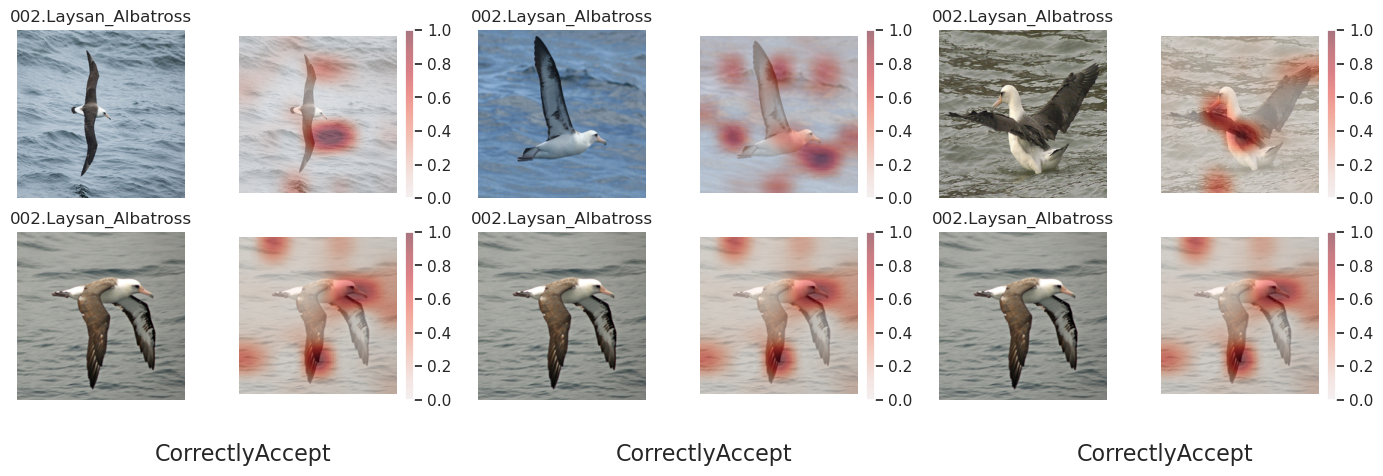
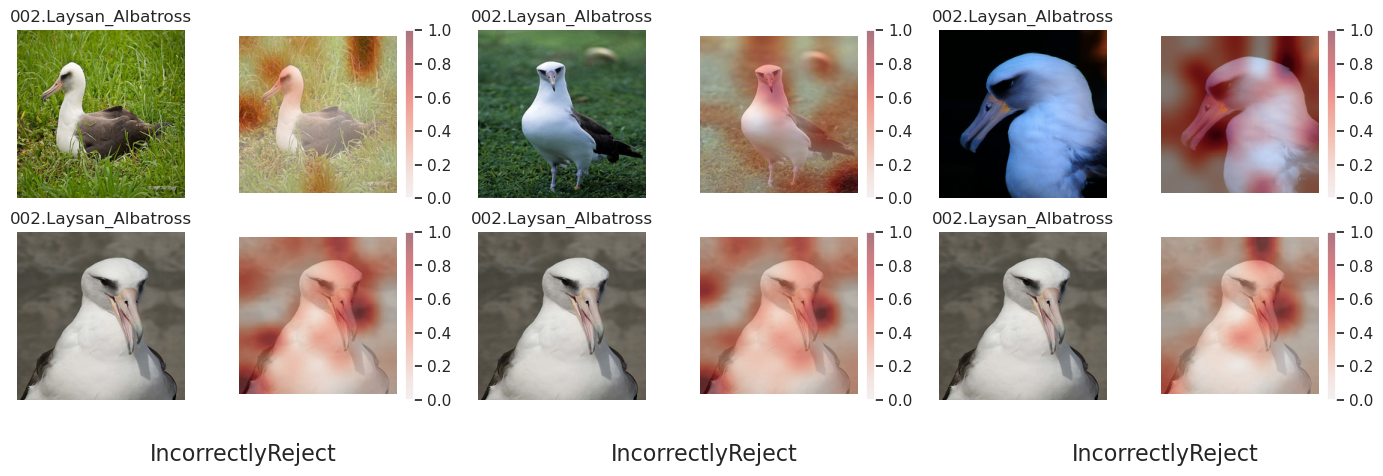
Add the softmax score for fine-tuning step

diff --git a/cub_infer.py b/cub_infer.py
@@ -86,7 +86,7 @@ full_cub_dataset = ImageFolderForNNs('/home/giang/Downloads/datasets/CUB/combine
 if __name__ == '__main__':
     parser = argparse.ArgumentParser()
     parser.add_argument('--ckpt', type=str,
-                        default='best_model_super-mountain-1434.pt',
+                        default='best_model_stilted-yogurt-1442.pt',
                         help='Model check point')
     # parser.add_argument('--dataset', type=str,
     #                     default='balanced_val_dataset_6k',
@@ -267,8 +267,8 @@ if __name__ == '__main__':
                 else:
                     TEST = False
                     if TEST is True:
-                        explanation = x.unsqueeze(1).repeat(1, RunningParams.k_value, 1, 1, 1). \
-                            view(x.shape[0], RunningParams.k_value, 3, 224, 224)
+                        # Use the random permutation to shuffle the first dimension of the explanation tensor
+                        explanation = explanation[torch.randperm(explanation.size(0))]
                     output, query, i2e_attn, e2i_attn = model(images=x, explanations=explanation, scores=model1_p)
 
                 p = torch.nn.functional.softmax(output, dim=1)
@@ -284,6 +284,8 @@ if __name__ == '__main__':
 
                     results = (preds == labels)
                     for sample_idx in range(x.shape[0]):
+                        if sample_idx == 1:
+                            break
                         result = results[sample_idx].item()
                         if result is True:
                             correctness = 'Correctly'
@@ -309,10 +311,10 @@ if __name__ == '__main__':
                             Visualization.visualize_transformer_attn_v2(bef_weights, aft_weights, prototype, query, model2_decision, prototype_idx)
 
                         # Combine visualizations
-                        # cmd = 'montage tmp/{}/{}_[0-{}].png -tile 3x1 -geometry +0+0 tmp/{}/{}.jpeg'.format(
-                        #     model2_decision, base_name, RunningParams.k_value-1, model2_decision, base_name)
-                        cmd = 'montage tmp/{}/{}_[0-{}].png -tile 3x1 -geometry +0+0 my_plot.png'.format(
-                            model2_decision, base_name, RunningParams.k_value - 1)
+                        cmd = 'montage tmp/{}/{}_[0-{}].png -tile 3x1 -geometry +0+0 tmp/{}/{}.jpeg'.format(
+                            model2_decision, base_name, RunningParams.k_value-1, model2_decision, base_name)
+                        # cmd = 'montage tmp/{}/{}_[0-{}].png -tile 3x1 -geometry +0+0 my_plot.png'.format(
+                        #     model2_decision, base_name, RunningParams.k_value - 1)
                         os.system(cmd)
                         # Remove unused images
                         cmd = 'rm -rf tmp/{}/{}_[0-{}].png'.format(

diff --git a/transformer.py b/transformer.py
@@ -83,15 +83,20 @@ class Transformer_AdvisingNetwork(nn.Module):
                                                                    RunningParams.conv_layer_size[RunningParams.conv_layer])
 
         self.transformer = Transformer(dim=2048, depth=2, heads=8, dim_head=64, mlp_dim=512, dropout=0.0)
-        self.cross_transformer = CrossTransformer(sm_dim=2048, lg_dim=2048, depth=2, heads=8,
+        self.cross_transformer = CrossTransformer(sm_dim=2048, lg_dim=2048, depth=2, heads=1,
                                                   dim_head=64, dropout=0.0)
 
         # TODO: What is dim_head, mlp_dim? How these affect the performance?
         # Branch 1 takes softmax scores and cosine similarity
         # self.branch1 = BinaryMLP(200, 2)
         # Branch 3 takes transformer features and sep_token*2
-        self.branch3 = BinaryMLP(RunningParams.k_value*RunningParams.conv_layer_size[RunningParams.conv_layer]*2 +
-                                 RunningParams.k_value*2, 32)
+        # if RunningParams.USING_SOFTMAX is True:
+        #     self.branch3 = BinaryMLP(RunningParams.k_value*RunningParams.conv_layer_size[RunningParams.conv_layer]*2 +
+        #                              RunningParams.k_value*2 + 201, 32)
+        # else:
+        self.branch3 = BinaryMLP(
+            RunningParams.k_value * RunningParams.conv_layer_size[RunningParams.conv_layer] * 2 +
+            RunningParams.k_value * 2, 32)
 
         # self.output_layer = BinaryMLP(2 * 2 + 2, 2)
 
@@ -206,6 +211,9 @@ class Transformer_AdvisingNetwork(nn.Module):
             transformer_emb = torch.cat([sep_token, input_cls[:, 0, :], sep_token, exp_cls[:, 0, :]], dim=1)
             for prototype_idx in range(1, RunningParams.k_value):
                 transformer_emb = torch.cat([transformer_emb, sep_token, input_cls[:, prototype_idx], sep_token, exp_cls[:, prototype_idx]], dim=1)
+
+            if RunningParams.USING_SOFTMAX is True:
+                transformer_emb = torch.cat([transformer_emb, sep_token, scores], dim=1)
 
             i2e_attns = torch.cat(i2e_attns, dim=2)
             e2i_attns = torch.cat(e2i_attns, dim=2)

diff --git a/cub_model_training.py b/cub_model_training.py
@@ -40,7 +40,7 @@ torch.backends.cudnn.benchmark = True
 plt.ion()   # interactive mode
 
 os.environ["CUDA_DEVICE_ORDER"] = "PCI_BUS_ID"
-os.environ["CUDA_VISIBLE_DEVICES"] = "4,5,6,7"
+os.environ["CUDA_VISIBLE_DEVICES"] = "0,1,2,3"
 
 RunningParams = RunningParams()
 Dataset = Dataset()
@@ -303,9 +303,14 @@ MODEL2 = MODEL2.cuda()
 MODEL2 = nn.DataParallel(MODEL2)
 
 if RunningParams.CONTINUE_TRAINING:
-    model_path = 'best_models/best_model_exalted-haze-1422.pt'
+    model_path = 'best_models/best_model_feasible-plasma-1440.pt'
     checkpoint = torch.load(model_path)
     MODEL2.load_state_dict(checkpoint['model_state_dict'])
+    if RunningParams.USING_SOFTMAX is True:
+        orig_weight = MODEL2.module.branch3.net[0].weight
+        new_weight = torch.zeros((32, 12495)).cuda()
+        new_weight[:, :12294] = orig_weight
+        MODEL2.module.branch3.net[0].weight = torch.nn.Parameter(new_weight)
 
     print('Continue training from ckpt {}'.format(model_path))
     print('Pretrained model accuracy: {:.2f}'.format(checkpoint['val_acc']))

diff --git a/params.py b/params.py
@@ -31,7 +31,7 @@ class RunningParams(object):
 
         # Training
         if self.CUB_TRAINING:
-            self.MODEL2_FINETUNING = False
+            self.MODEL2_FINETUNING = True
             self.HIGHPERFORMANCE_FEATURE_EXTRACTOR = False
             self.HIGHPERFORMANCE_MODEL1 = False
 
